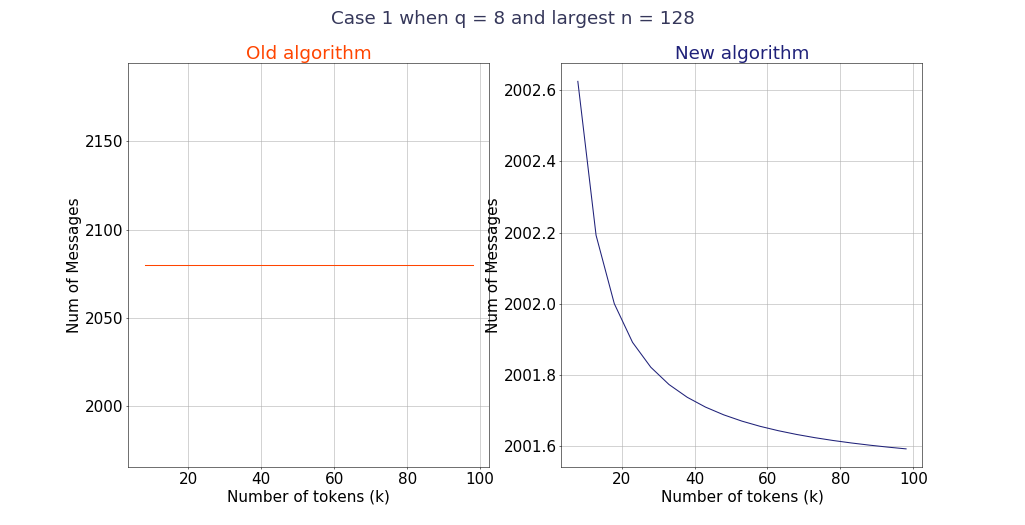
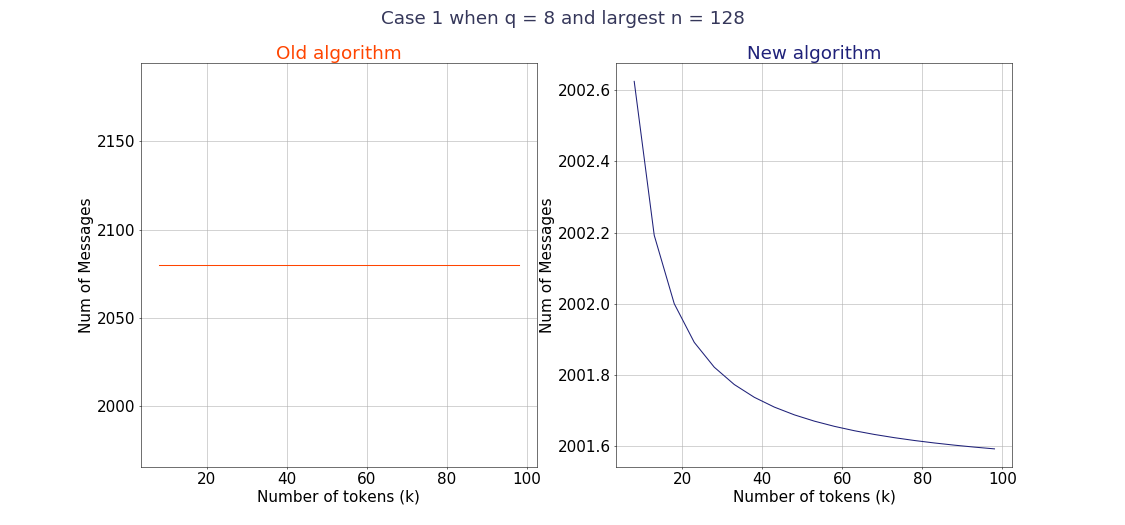
more width to graphs

diff --git a/Graphs.py b/Graphs.py
@@ -74,7 +74,7 @@ def draw(x, arr_y, labels, title):
     plt.rcParams.update({'font.size': 22})
     while(idx < len(arr_y) - 1):
         fig, (ax1, ax2) = plt.subplots(1, 2)
-        fig.set_size_inches(20.5, 10.5)
+        fig.set_size_inches(22.5, 10.5)
         fig.suptitle(caseTitles[int(idx/2)]+" " + title, color="#35375A")
         ax1.set_title(titles[idx], color='#FF4500')
         ax2.set_title(titles[idx+1], color='#1F2179')
